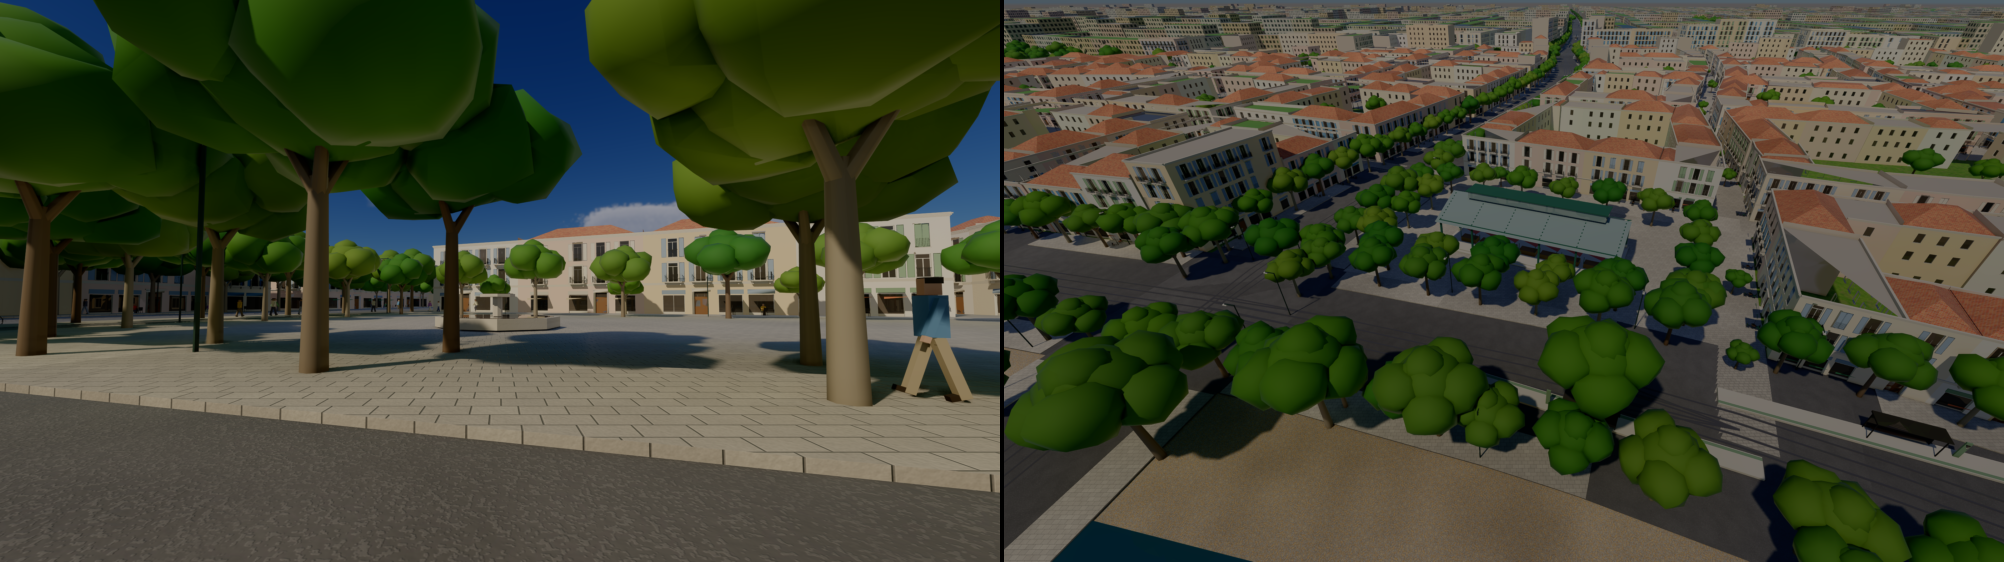
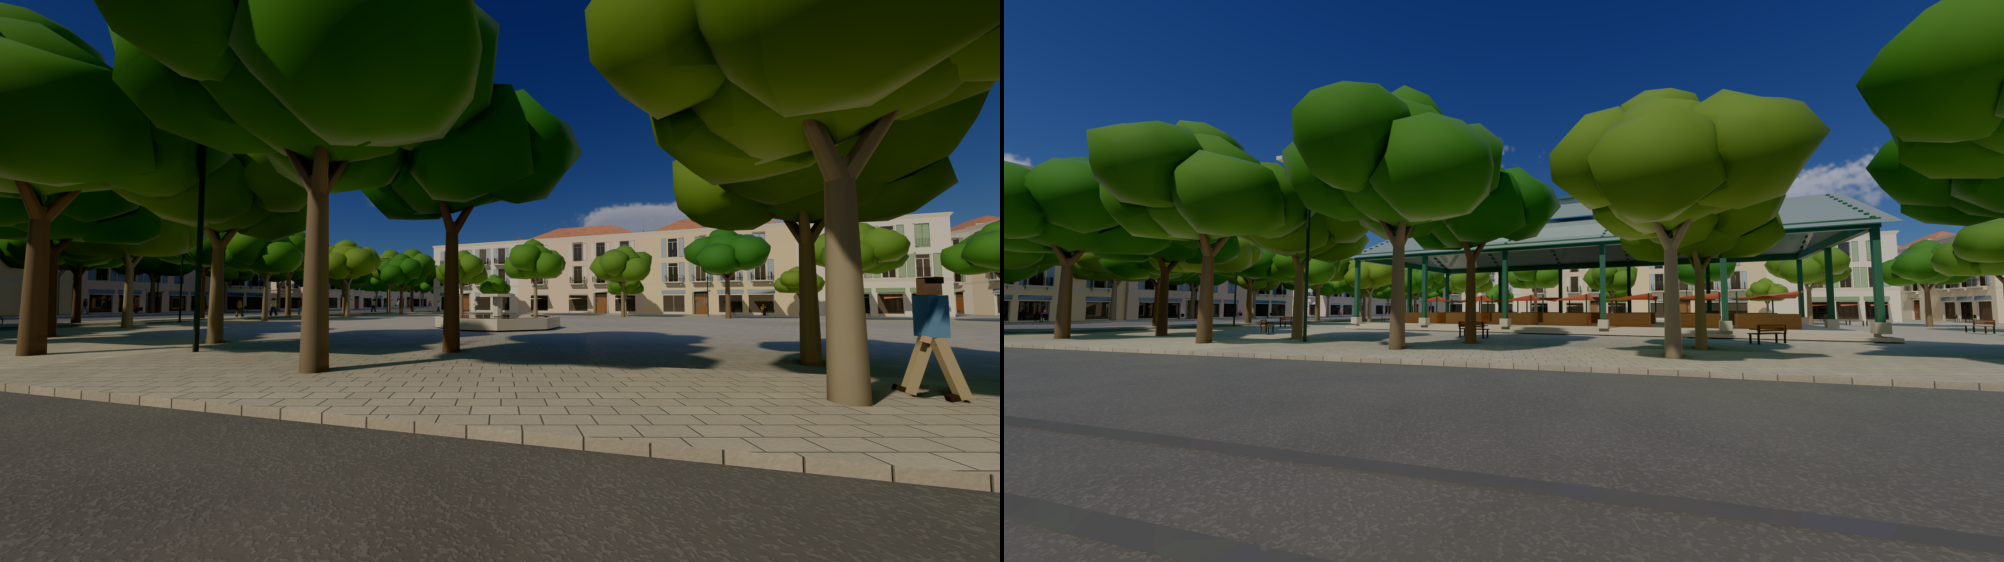
City plan: benches round the squares
forge_geom::furniture::bench, wooden slats on cast-iron frames; city-plan stands one every
15 m inside each square's outer tree row, facing the middle (a landmark's square: facing it).

diff --git a/crates/forge-geom/src/furniture.rs b/crates/forge-geom/src/furniture.rs
@@ -137,6 +137,59 @@ fn prism(m: &mut TriMesh, c: Vec3, r: f32, t: f32, sides: u32, section: u8) {
     }
 }
 
+/// A park bench 1.8 m long along `x`, facing `+z`: wooden slats on two cast-iron end frames, a
+/// slatted back.
+pub fn bench() -> TriMesh {
+    let mut m = TriMesh::default();
+    for x in [-0.8_f32, 0.8] {
+        // The end frame: a leg front and back, an arm.
+        for z in [-0.2_f32, 0.2] {
+            cuboid(
+                &mut m,
+                Vec3::new(x - 0.03, 0.0, z - 0.03),
+                Vec3::new(x + 0.03, 0.45, z + 0.03),
+                METAL,
+                ALL & !NEG_Y & !POS_Y,
+            );
+        }
+        cuboid(
+            &mut m,
+            Vec3::new(x - 0.03, 0.42, -0.26),
+            Vec3::new(x + 0.03, 0.85, -0.2),
+            METAL,
+            ALL & !NEG_Y,
+        );
+        cuboid(
+            &mut m,
+            Vec3::new(x - 0.03, 0.62, -0.22),
+            Vec3::new(x + 0.03, 0.66, 0.22),
+            METAL,
+            ALL,
+        );
+    }
+    for k in 0..4 {
+        let z = -0.18 + k as f32 * 0.12;
+        cuboid(
+            &mut m,
+            Vec3::new(-0.9, 0.42, z),
+            Vec3::new(0.9, 0.46, z + 0.09),
+            WOOD,
+            ALL,
+        );
+    }
+    for k in 0..3 {
+        let y = 0.55 + k as f32 * 0.11;
+        cuboid(
+            &mut m,
+            Vec3::new(-0.9, y, -0.25),
+            Vec3::new(0.9, y + 0.08, -0.22),
+            WOOD,
+            ALL,
+        );
+    }
+    m
+}
+
 /// A square's fountain round the origin: an octagonal stone basin 6.4 m across, brimming with
 /// water ([`GLASS`]'s section), a column in its middle carrying a bowl.
 pub fn fountain() -> TriMesh {

diff --git a/demos/city-plan/src/lib.rs b/demos/city-plan/src/lib.rs
@@ -426,6 +426,33 @@ impl PlanScenario {
             kit_instances.push((id, at, group));
             hall_squares.push(i);
         }
+        // Benches round each square of 0.15 ha or more, every 15 m inside its outer tree row,
+        // facing the middle; on a landmark's square they face it.
+        let benches: Vec<Mat4> = plan
+            .blocks
+            .iter()
+            .filter(|b| b.use_ == BlockUse::Square && b.area >= 1500.0)
+            .filter_map(|b| geom::inset(&b.buildable, 6.0).map(|ring| (b, ring)))
+            .flat_map(|(b, ring)| {
+                let middle = geom::centroid(&b.buildable);
+                let mut closed = ring.clone();
+                closed.push(ring[0]);
+                geom::resample(&closed, 15.0).into_iter().map(move |p| {
+                    let face = (middle - p).normalize_or_zero();
+                    // The bench faces +z: turned so +z points at the middle.
+                    let turn = (face.x as f32).atan2(face.y as f32);
+                    Mat4::from_rotation_translation(
+                        glam::Quat::from_rotation_y(turn),
+                        world(size, p, 0.16),
+                    )
+                })
+            })
+            .collect();
+        if !benches.is_empty() {
+            kit_meshes.push(forge_geom::furniture::bench());
+            let id = (kit_meshes.len() - 1) as u32;
+            kit_instances.extend(benches.into_iter().map(|at| (id, at, 0)));
+        }
         // A fountain in the middle of each other square of 0.15 ha or more.
         let fountains: Vec<Mat4> = plan
             .blocks

diff --git a/docs/demos/city-plan.md b/docs/demos/city-plan.md
@@ -283,7 +283,8 @@ landing. `--clock SECONDS` sets the service's clock for a capture.
 
 *Left: a square by the river avenue at 18:00, from the pavement, paved in limestone, its
 fountain in the middle, an alley of planes round it (each tree in its own tones), shops round
-it. Right: the market hall on its square, from 40 m up.* Squares come from three rules:
+it. Right: the market hall on its square under the planes, benches round it.* Squares come from
+three rules:
 - the block nearest each built district's centre and each landmark becomes a square (within
   150 m, at most 1 ha), unless one already opens within 120 m;
 - so do the old towns' blocks of 600–3 000 m² that stand 180 m from any other square: their
@@ -293,7 +294,8 @@ it. Right: the market hall on its square, from 40 m up.* Squares come from three
 Squares are paved, with a row of trees every 10 m, 3 m inside their building lines. Those of
 0.5 ha or more get a second row 11 m further in, an alley of planes (a Provençal *cours*). A
 fountain stands in the middle of those of 0.15 ha or more (`furniture::fountain`), grander on
-grander squares. The example has 12 squares, slivers included.
+grander squares, and benches stand every 15 m inside the trees, facing the middle
+(`furniture::bench`). The example has 12 squares, slivers included.
 
 **The landmarks** (`LandmarkKind`) get their own square: the built block of 0.15–3.5 ha
 nearest their anchor becomes one. Each then stands on the nearest square of 0.15 ha or more
